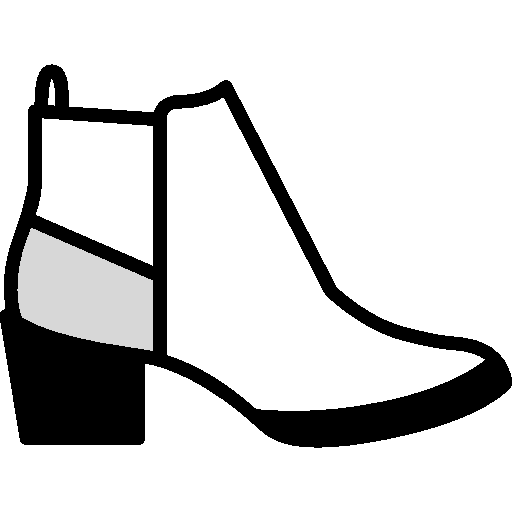
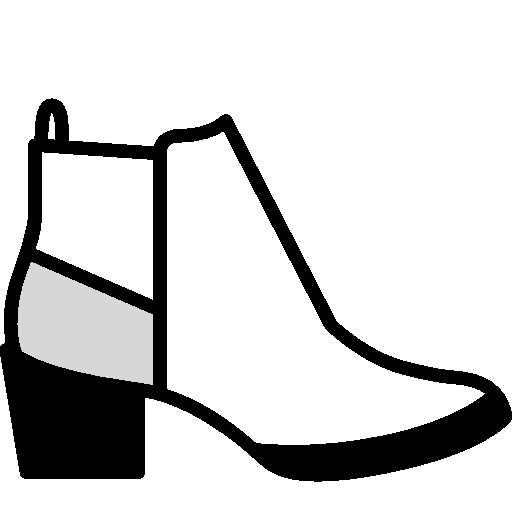
Footwear graphics fixed + hourly data display fixed

Changed region(s): [[0.0, 0.125, 1.0, 0.9375]]

diff --git a/lib/widgets/First Page Widgets/character_model.dart b/lib/widgets/First Page Widgets/character_model.dart
@@ -8,24 +8,14 @@ class CharacterModel extends ConsumerWidget {
   Widget build(BuildContext context, ScopedReader watch) {
     final vwvm = watch(virtualWardrobe);
     final cc = watch(clothingChooser);
-    final hfvm = watch(hourlyData);
     final favm = watch(firebaseAuth);
+    final hfvm = watch(hourlyData);
     final tools = watch(toolsVM);
-    List<double> temperatures = List<double>();
-    List<double> weatherIds = List<double>();
     if (vwvm.headwear.isNotEmpty &&
         vwvm.tops.isNotEmpty &&
         vwvm.bottoms.isNotEmpty &&
         vwvm.footwear.isNotEmpty) {
-      int tempCounter = 0;
-      hfvm.hours.forEach((hour) => {
-            tempCounter++,
-            if (tempCounter < 10)
-              {
-                temperatures.add(hour.temperature),
-                weatherIds.add(hour.weatherId.toDouble())
-              }
-          });
+      hfvm.getTemperaturesAndWeatherIds(10);
       cc.chooseClothing(
           vwvm.headwear,
           vwvm.tops,
@@ -33,7 +23,7 @@ class CharacterModel extends ConsumerWidget {
           vwvm.footwear,
           vwvm.costumes,
           10,
-          tools.calculateTheMedian(weatherIds).toInt(),
+          tools.calculateTheMedian(hfvm.weatherIds).toInt(),
           false);
     }
     if (vwvm.userCollections != null && vwvm.userCollections.exists) {
@@ -80,7 +70,7 @@ class CharacterModel extends ConsumerWidget {
           //LEFT SHOE
           cc.proposals.isNotEmpty
               ? Padding(
-                  padding: const EdgeInsets.only(bottom: 50, left: 35),
+                  padding: const EdgeInsets.only(bottom: 63, left: 35),
                   child: Align(
                     alignment: Alignment.bottomCenter,
                     child: Container(
@@ -103,7 +93,7 @@ class CharacterModel extends ConsumerWidget {
           //RIGHT SHOE
           cc.proposals.isNotEmpty
               ? Padding(
-                  padding: const EdgeInsets.only(bottom: 50, left: 95),
+                  padding: const EdgeInsets.only(bottom: 63, left: 95),
                   child: Align(
                     alignment: Alignment.bottomCenter,
                     child: Container(
@@ -169,7 +159,6 @@ class CharacterModel extends ConsumerWidget {
                 onTap: () {
                   if (cc.currentModelIndex > 0) {
                     cc.currentModelIndex--;
-                    print('INDEX: ' + cc.currentModelIndex.toString());
                   }
                 },
                 child: Container(
@@ -192,7 +181,6 @@ class CharacterModel extends ConsumerWidget {
                     cc.chooseClothing(
                         null, null, null, null, null, null, null, true);
                     cc.currentModelIndex++;
-                    print('INDEX: ' + cc.currentModelIndex.toString());
                   }
                 },
                 child: Container(

diff --git a/lib/widgets/Virtual Wardrobe Widgets/clothes_list.dart b/lib/widgets/Virtual Wardrobe Widgets/clothes_list.dart
@@ -136,6 +136,9 @@ Widget clothes(List<QueryDocumentSnapshot> array, ScopedReader watch) {
   const String fontFamily = 'Nexa';
   final vwvm = watch(virtualWardrobe);
   final favm = watch(firebaseAuth);
+  // final cc = watch(clothingChooser);
+  // final tools = watch(toolsVM);
+  // final hfvm = watch(hourlyData);
   if (array != null || array.length != 0) {
     return GridView.builder(
         shrinkWrap: true,
@@ -237,6 +240,20 @@ Widget clothes(List<QueryDocumentSnapshot> array, ScopedReader watch) {
                                       vwvm.deleteGarment(
                                           array[index].id, favm.auth);
                                       vwvm.getGarments(favm.auth);
+                                      vwvm.userCollections = null;
+                                      // cc.proposals = [];
+                                      // cc.chooseClothing(
+                                      //     vwvm.headwear,
+                                      //     vwvm.tops,
+                                      //     vwvm.bottoms,
+                                      //     vwvm.footwear,
+                                      //     vwvm.costumes,
+                                      //     10,
+                                      //     tools
+                                      //         .calculateTheMedian(
+                                      //             hfvm.weatherIds)
+                                      //         .toInt(),
+                                      //     false);
                                       //DELETE CLOTHING FROM FIREBASE
                                     },
                                     child: Text(

diff --git a/lib/widgets/First Page Widgets/hourly_forecast_list_display.dart b/lib/widgets/First Page Widgets/hourly_forecast_list_display.dart
@@ -7,10 +7,9 @@ import 'package:weatherdrobe/main.dart';
 class HourlyForecastListDisplay extends ConsumerWidget {
   @override
   Widget build(BuildContext context, ScopedReader watch) {
-    final hfvm = context.read(hourlyData);
-    hfvm.hours = fixingAList(hfvm.hours);
-    hfvm.icons = fixingAList(hfvm.icons);
+    final hfvm = watch(hourlyData);
     final tools = watch(toolsVM);
+    print(hfvm.hours[0].hourly.time.toString());
     return Container(
       child: ListView.builder(
         physics: NeverScrollableScrollPhysics(),
@@ -18,7 +17,7 @@ class HourlyForecastListDisplay extends ConsumerWidget {
         itemCount: hfvm.hours.length > 15 ? 15 : hfvm.hours.length,
         itemBuilder: (context, index) {
           final hour = hfvm.hours[index];
-          var jiffy = Jiffy.unix(hour.time).add(hours: 1);
+          var jiffy = Jiffy.unix(hour.time);
           return Card(
             child: ListTile(
               trailing: Container(
@@ -66,14 +65,5 @@ class HourlyForecastListDisplay extends ConsumerWidget {
 
   String firstCapital(String s) {
     return ("${s[0].toUpperCase()}${s.substring(1)}");
-  }
-
-  List<dynamic> fixingAList(List<dynamic> list) {
-    List<dynamic> lista = list;
-    lista.removeAt(0);
-    for (int i = 0; i < lista.length - 1; i++) {
-      lista[i] = lista[i + 1];
-    }
-    return lista;
   }
 }

diff --git a/lib/viewmodels/First Page/hourly_forecast_view_model.dart b/lib/viewmodels/First Page/hourly_forecast_view_model.dart
@@ -39,8 +39,8 @@ class HourlyForecastViewModel extends ChangeNotifier {
         desiredAccuracy: LocationAccuracy.high);
     lat = _currentPosition.latitude;
     long = _currentPosition.longitude;
-    lat = 54.519974;
-    long = 18.551115;
+    //lat = 54.519974;
+    //long = 18.551115;
     getHourlyData();
   }
 
@@ -57,5 +57,22 @@ class HourlyForecastViewModel extends ChangeNotifier {
       ikony.add(resultFromWebservice);
     });
     icons = ikony;
+    print("HOURLY UNIX: " + hours[0].hourly.time.toString());
+    hours.remove(0);
+    icons.remove(0);
+  }
+
+  List<double> temperatures = [];
+  List<double> weatherIds = [];
+  void getTemperaturesAndWeatherIds(int amount) {
+    int tempCounter = 0;
+    hours.forEach((hour) => {
+          tempCounter++,
+          if (tempCounter < amount)
+            {
+              temperatures.add(hour.temperature),
+              weatherIds.add(hour.weatherId.toDouble())
+            }
+        });
   }
 }

diff --git a/lib/main.dart b/lib/main.dart
@@ -1,4 +1,5 @@
 import 'package:flutter/material.dart';
+import 'package:flutter_phoenix/flutter_phoenix.dart';
 import 'package:flutter_riverpod/flutter_riverpod.dart';
 import 'package:weatherdrobe/viewmodels/First Page/current_data_view_model.dart';
 import 'package:weatherdrobe/viewmodels/First Page/hourly_forecast_view_model.dart';
@@ -32,7 +33,10 @@ void main() async {
   await Firebase.initializeApp();
   //FirebaseFirestore firestore = FirebaseFirestore.instance;
   await SystemChrome.setEnabledSystemUIOverlays([SystemUiOverlay.bottom]);
-  runApp(ProviderScope(child: MyApp()));
+  runApp(ProviderScope(
+      child: Phoenix(
+    child: MyApp(),
+  )));
 }
 
 class MyApp extends StatelessWidget {

diff --git a/lib/pages/FirstPage.dart b/lib/pages/FirstPage.dart
@@ -1,4 +1,5 @@
 import 'package:flutter/material.dart';
+import 'package:flutter_phoenix/flutter_phoenix.dart';
 import 'package:flutter_riverpod/flutter_riverpod.dart';
 import 'package:pull_to_refresh/pull_to_refresh.dart';
 import 'package:weatherdrobe/main.dart';
@@ -25,6 +26,7 @@ class _FirstPage extends State<FirstPage> {
       RefreshController(initialRefresh: false);
 
   void _onRefresh() async {
+    Phoenix.rebirth(context);
     await Future.delayed(Duration(milliseconds: 1000));
     _refreshController.refreshCompleted();
   }

diff --git a/lib/viewmodels/Virtual Wardrobe/virtual_Wardrobe_View_Model.dart b/lib/viewmodels/Virtual Wardrobe/virtual_Wardrobe_View_Model.dart
@@ -302,7 +302,6 @@ class VirtualWardrobeViewModel extends ChangeNotifier {
       'cotton-cardigan',
       'denim-jacket',
       'cotton-polo-shirt',
-      'denim-jacket',
       'denim-shirt',
       'formal-shirt',
       'henley-shirt',
@@ -352,7 +351,7 @@ class VirtualWardrobeViewModel extends ChangeNotifier {
       'leather-shoes',
       'loafer',
       'platform-sandals',
-      'rain-boots',
+      //'rain-boots',
       'sleepers',
       'sneaker',
       'sneakers',
